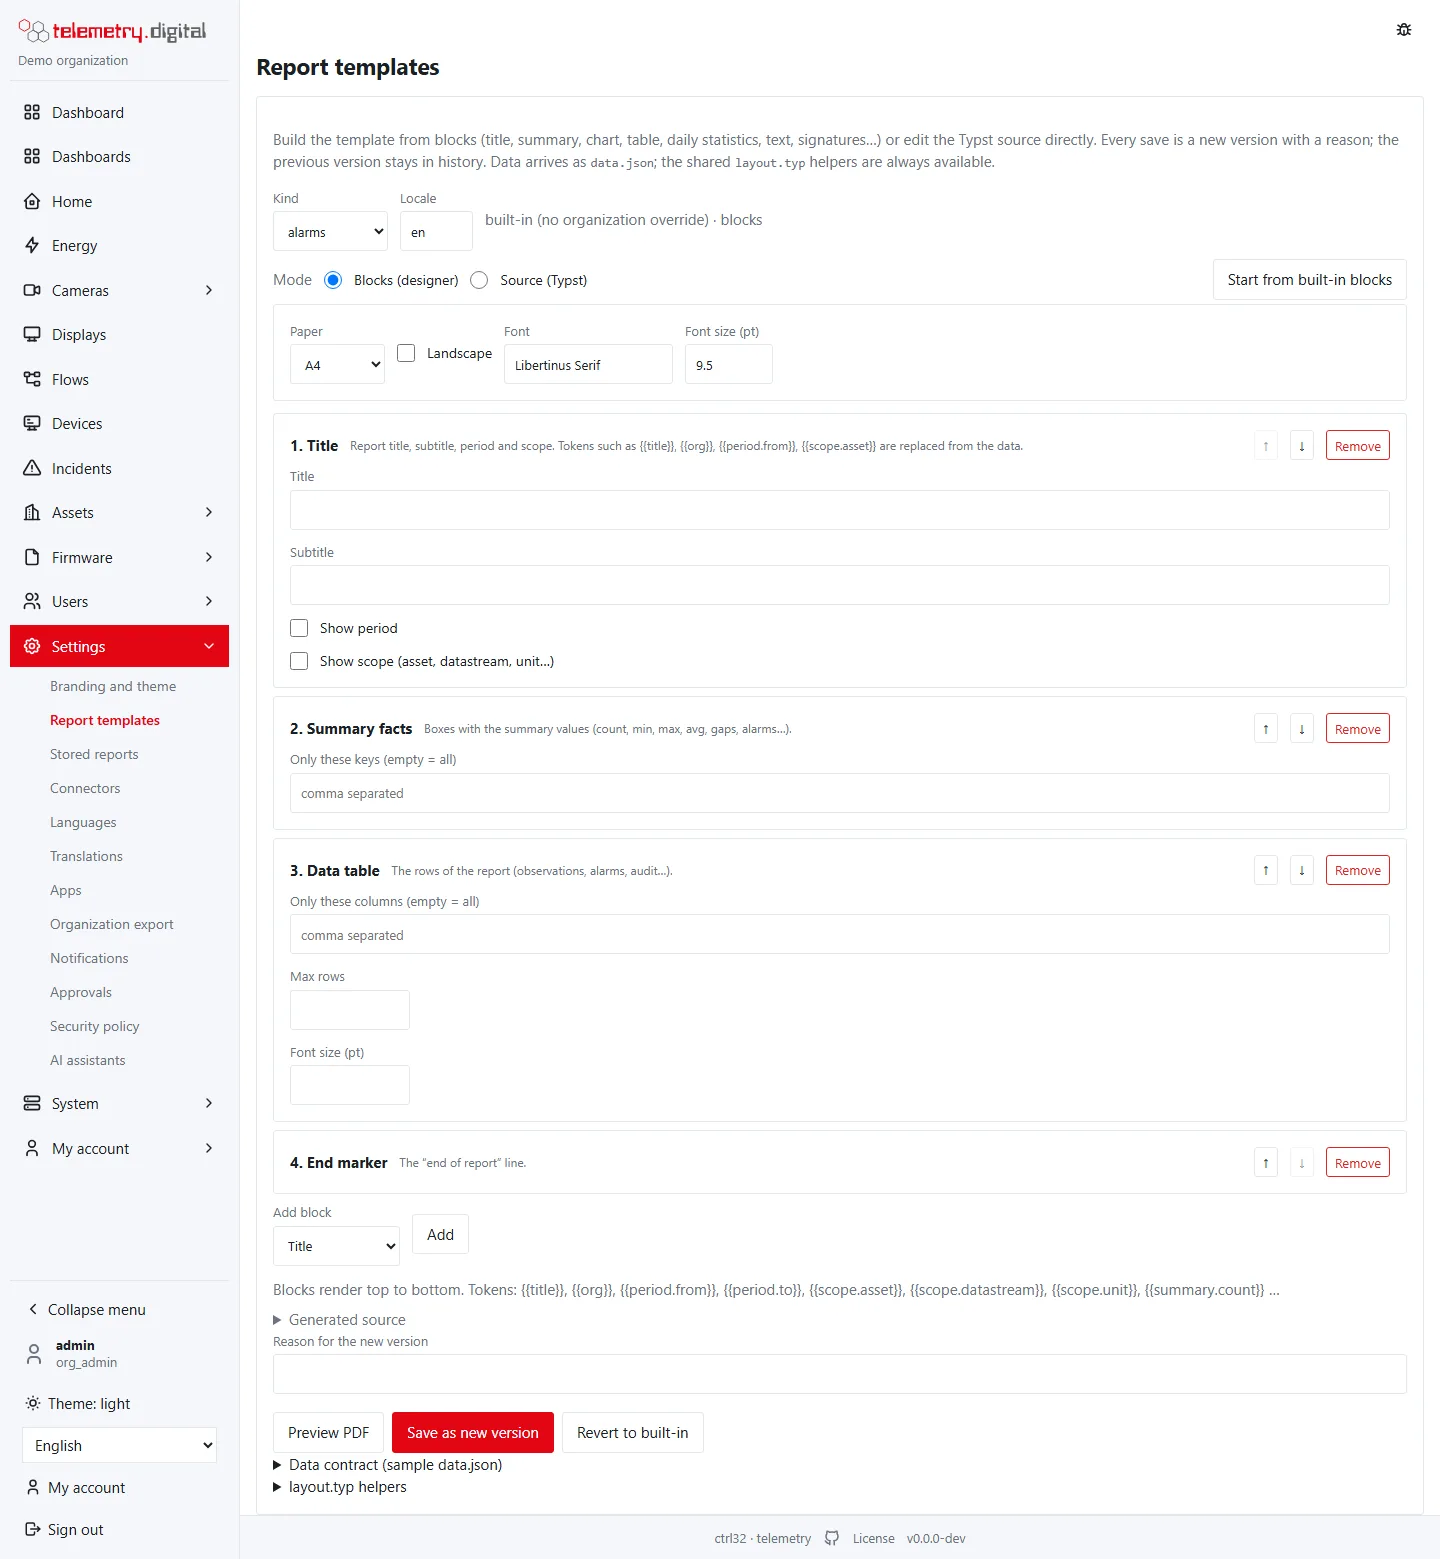
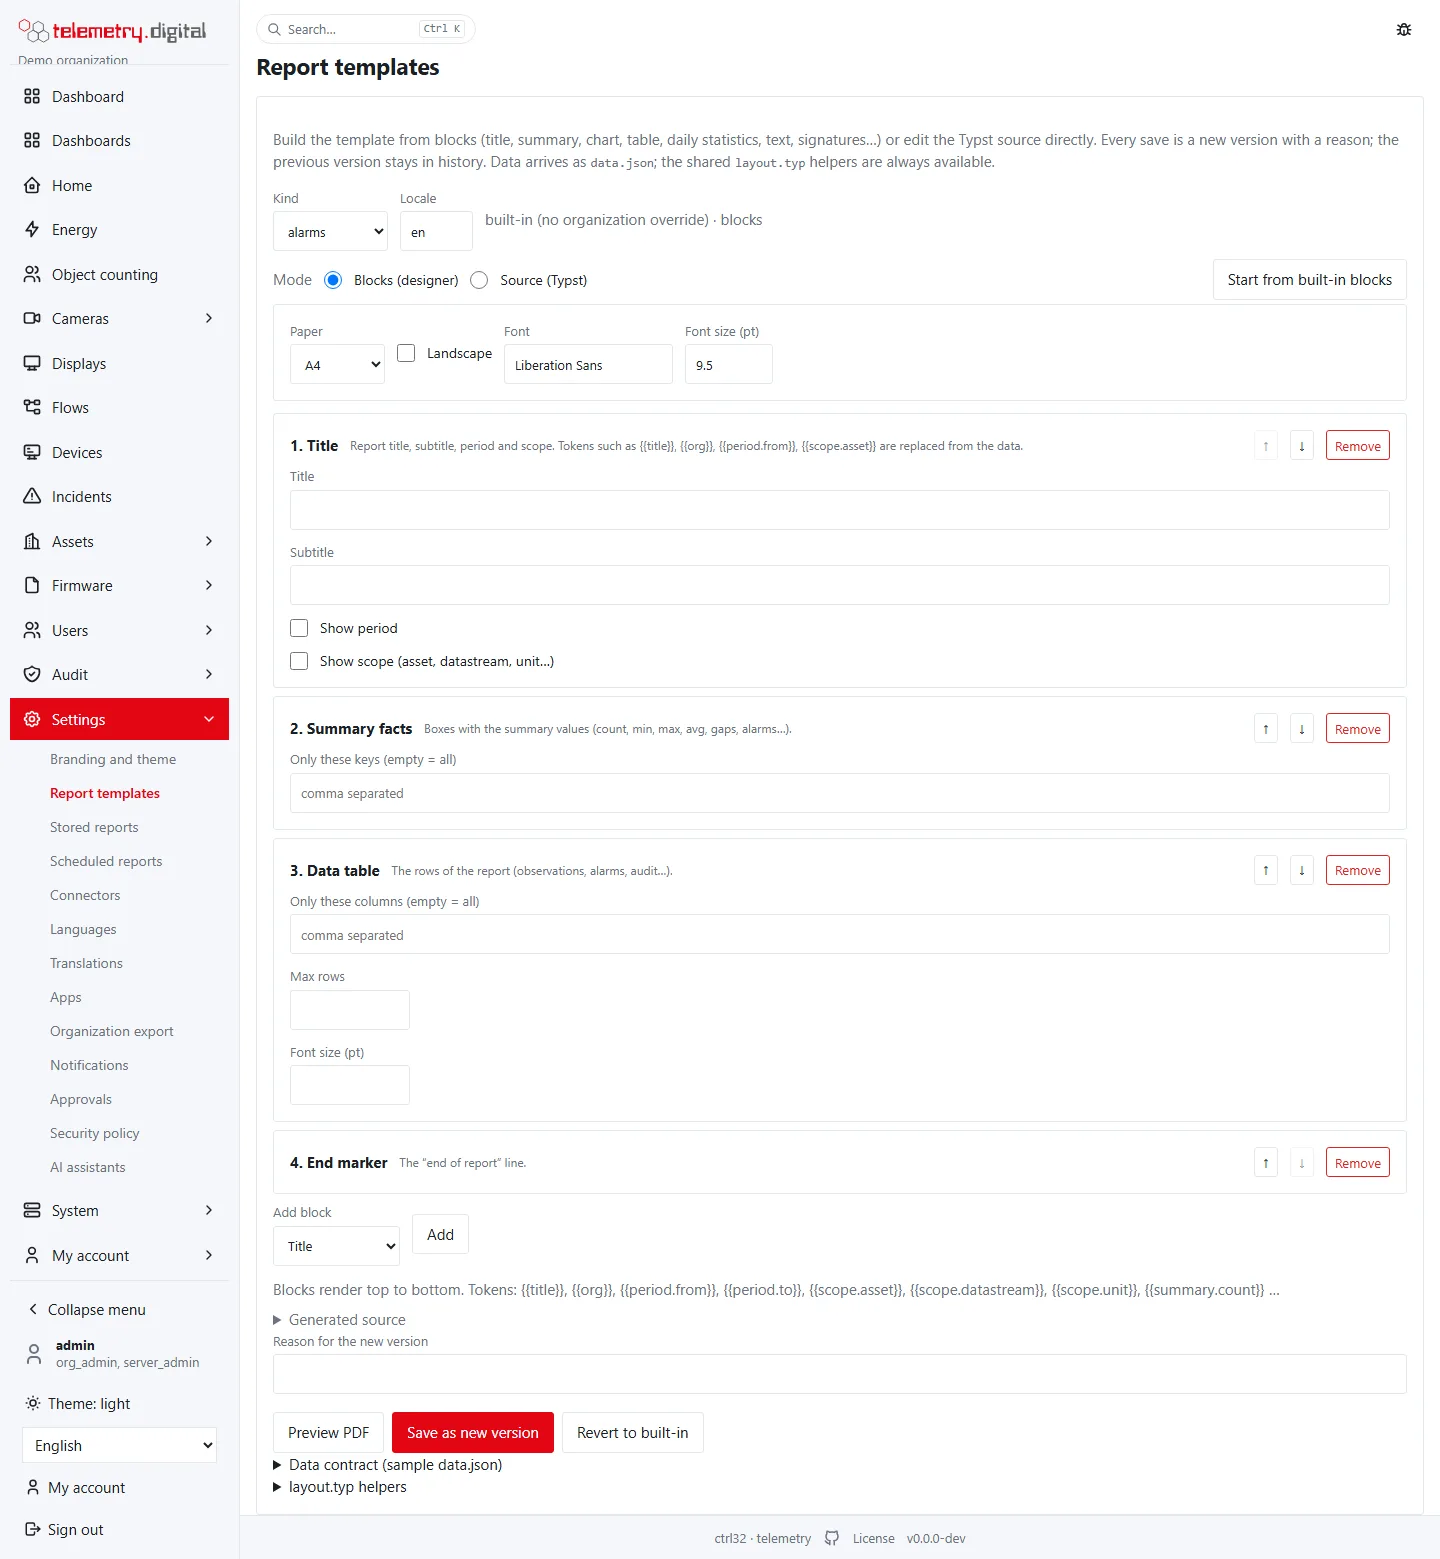
Exports: Liberation Sans typeface (0.73.1)

Changed region(s): [[0.0, 0.0616, 0.1562, 0.7389], [0.375, 0.2155, 0.4062, 0.2463], [0.0, 0.7697, 0.0312, 0.8005]]

diff --git a/docs/telemetry/energy/pdf-and-exports.md b/docs/telemetry/energy/pdf-and-exports.md
@@ -13,6 +13,10 @@ Report templates are designed from **blocks**: title, summary, chart, text, tabl
 and page break, on A4, A3, A5, US Letter or US Legal paper, portrait or landscape. Templates are content like
 dashboards — versioned, with a reason for every change.
 
+Reports and PDF exports use **Liberation Sans**, a typeface with the same letter widths as Arial, bundled with the
+server so a PDF looks the same on every installation; Excel files use Arial. A template may choose another typeface
+in its page settings.
+
 Under *Settings → Report templates* a template is put together from blocks in the designer, or edited as Typst
 source; *Preview PDF* shows the result before it is saved as a new version.
 

diff --git a/docs/telemetry/administration/settings-reference.md b/docs/telemetry/administration/settings-reference.md
@@ -109,7 +109,7 @@ A template source may be at most 512 KiB.
 |---|:---:|---|
 | Paper | A4 | A4, A3, A5, US Letter, US Legal |
 | Landscape | off | — |
-| Font | Libertinus Serif | up to 64 characters |
+| Font | Liberation Sans | up to 64 characters |
 | Font size (pt) | 9.5 | 6–16 in steps of 0.5 |
 
 ### Blocks
